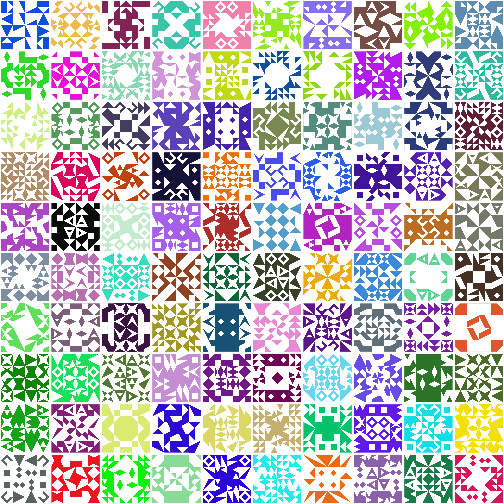
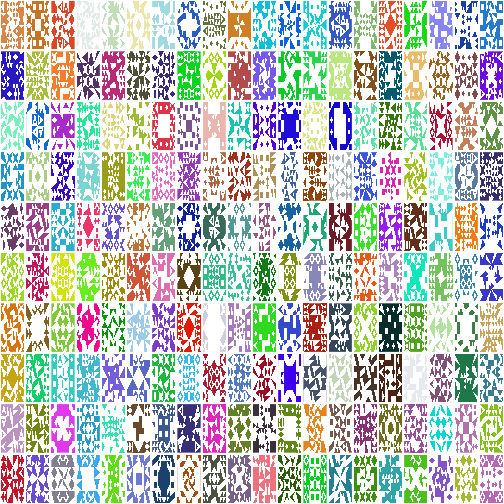
Update multi figure

diff --git a/README.md b/README.md
@@ -55,11 +55,11 @@ plotIdenticon(seed = "abc", nSquare = 5)
 
 
 ```r
-par(mfrow = c(10, 10), mar = rep(0.1, 4))
-for (ii in 1:100) plotIdenticon()
+par(mfrow = c(10, 20), mar = rep(0.1, 4))
+for (ii in 1:200) plotIdenticon()
 ```
 
-<img src="README_files/manyIdenticon-1.png" title="plot of chunk manyIdenticon" alt="plot of chunk manyIdenticon" width="6" height="6" />
+<img src="README_files/manyIdenticon-1.png" title="plot of chunk manyIdenticon" alt="plot of chunk manyIdenticon" width="6in" height="3in" />
 
 
 ### generateIdenticon 
